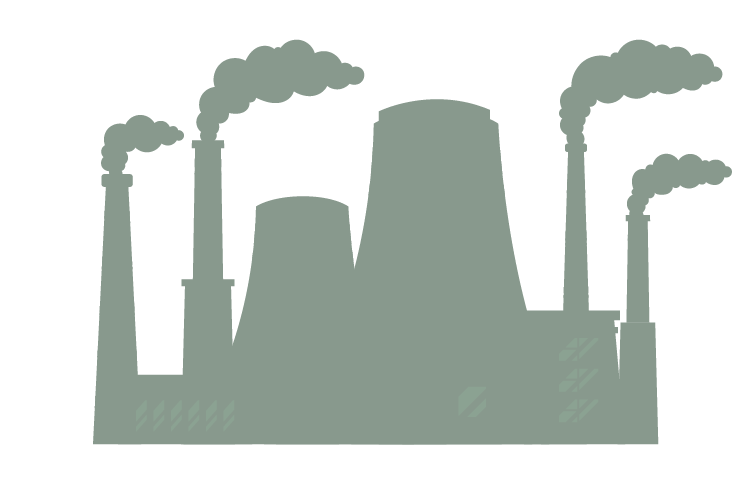
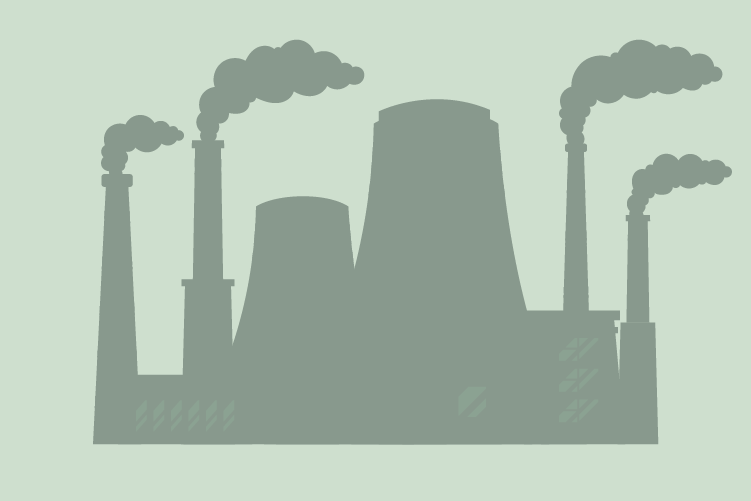
avance

diff --git a/04-ECYDA/src/components/Header.jsx b/04-ECYDA/src/components/Header.jsx
@@ -1,29 +1,29 @@
 import "../stylesheet/Header.css"
 
-export const Header = ({ headerColor , header2Color }) => {
+export const Header = ({ headerColor, header2Color }) => {
   return (
     <div className="Header ">
-      <nav class={`navbar navbar-expand-lg  ${headerColor}`} data-bs-theme="dark">
-        <div class="container ">
-          <a class="navbar-brand" href="#">
-            <img src="./public/logo-blanco.png" alt="Bootstrap" width="80"/>
+      <nav className={`navbar navbar-expand-lg  ${headerColor}`} data-bs-theme="dark">
+        <div className="container ">
+          <a className="navbar-brand" href="#">
+            <img src="./logo-blanco.png" alt="Bootstrap" width="80" />
           </a>
-          <button class="navbar-toggler" type="button" data-bs-toggle="collapse" data-bs-target="#navbarNav" aria-controls="navbarNav" aria-expanded="false" aria-label="Toggle navigation">
-            <span class="navbar-toggler-icon"></span>
+          <button className="navbar-toggler" type="button" data-bs-toggle="collapse" data-bs-target="#navbarNav" aria-controls="navbarNav" aria-expanded="false" aria-label="Toggle navigation">
+            <span className="navbar-toggler-icon"></span>
           </button>
-          <div class="collapse navbar-collapse" id="navbarNav">
-            <ul class="navbar-nav ms-auto ">
-              <li class="nav-item navbar-light ">
-                <a class="nav-link" href="#">Acerca de</a>
+          <div className="collapse navbar-collapse" id="navbarNav">
+            <ul className="navbar-nav ms-auto ">
+              <li className="nav-item navbar-light ">
+                <a className="nav-link" href="#">Acerca de</a>
               </li>
-              <li class="nav-item">
-                <a class="nav-link" href="#">Comic interactivo</a>
+              <li className="nav-item">
+                <a className="nav-link" href="#">Comic interactivo</a>
               </li>
-              <li class="nav-item">
-                <a class="nav-link" href="#">Tienda</a>
+              <li className="nav-item">
+                <a className="nav-link" href="#">Tienda</a>
               </li>
-              <li class="nav-item">
-                <a class="nav-link" href="#">Quienes somos</a>
+              <li className="nav-item">
+                <a className="nav-link" href="#">Quienes somos</a>
               </li>
             </ul>
           </div>

diff --git a/04-ECYDA/src/components/Cards.jsx b/04-ECYDA/src/components/Cards.jsx
@@ -1,20 +1,21 @@
-export const Cards = () => {
+import "../stylesheet/Cards.css"
+export const Cards = ({bgImg, bgImg2, bgR}) => {
     return (
-        <div classname={`row m-4 p-2 ${bg-color}`}>
-            <div classname="col-sm-6 mb-3 mb-sm-0">
-                <div classname="card">
-                    <div classname="card-body">
-                        <h5 classname="card-title">¿POR QUE CREEAMOS LA MARCA?</h5>
-                        <p classname="card-text">
+        <div className={`row m-4 p-2 ${bgR}`}>
+            <div className="col-sm-6 mb-3 mb-sm-0">
+                <div className="card">
+                    <div className={`card-body  ${bgImg}` } style={{minHeight: "200px"}}>
+                        <h5 className="card-title">¿POR QUE CREEAMOS LA MARCA?</h5>
+                        <p className="card-text">
                         Poco se ha explorado el tema del calentamiento global y sus consecuencias a través de comics interactivos con una narrativa distópica, es por esto que, decidimos crear este proyecto.</p>
                     </div>
                 </div>
             </div>
-            <div classname="col-sm-6">
-                <div classname="card">
-                    <div classname="card-body">
-                        <h5 classname="card-title">¿QUE SON LAS NARRATIVAS DISTOPICAS?</h5>
-                        <p classname="card-text">
+            <div className="col-sm-6">
+                <div className="card">
+                    <div className={`card-body ${bgImg2}`} style={{minHeight: "200px"}}>
+                        <h5 className="card-title">¿QUE SON LAS NARRATIVAS DISTOPICAS?</h5>
+                        <p className="card-text">
                      Historias, a menudo de ciencia ficción, que presentan un futuro o sociedad alternativa, generalmente indeseable, caracterizada por la opresión, el control y la falta de libertad</p>
                     </div>
                 </div>

diff --git a/04-ECYDA/src/App.jsx b/04-ECYDA/src/App.jsx
@@ -2,6 +2,8 @@ import "./App.css"
 import { Header } from "./components/Header.jsx"
 import {InfoCard} from "./components/InfoCard.jsx"
 import { Cards } from "./components/Cards.jsx"
+import { Barra } from "./components/Barra.jsx"
+
 
 export const App = () => {
     return(
@@ -14,7 +16,13 @@ export const App = () => {
          BgImg="bg-img"
         />
         <Cards
-        />
+         bgImg="bg-fact2"
+         bgImg2="bg-fact3"
+         bgR="bg-Rect"
+         />
+        <Barra
+        bgIMG="bg-Img5"
+         />
         </>
     )
 }

diff --git a/04-ECYDA/src/components/Barra.jsx b/04-ECYDA/src/components/Barra.jsx
@@ -1,0 +1,12 @@
+import "../stylesheet/Barra.css"
+export const Barra = ({bgIMG}) => {
+    return (
+        <div>
+            <div className="card" style={{ minWidth: "200px" }}>
+                <div className={`card-body ${bgIMG}`}>
+                    <h5 className="card-title">Somos una marca enfocada en desarrollar un proyecto multimedial transmedia para concienciar, entretener y enseñar acerca del calentamiento goblal y sus consecuencias.</h5>
+                </div>
+            </div>
+        </div>
+    )
+}

diff --git a/04-ECYDA/src/stylesheet/Cards.css b/04-ECYDA/src/stylesheet/Cards.css
@@ -1,4 +1,19 @@
-.bg-color{
-    background-color: #CEDFCE;
-    
+
+.bg-fact2{
+    background-image: url(../public/fabrica2.png);
+    background-size: cover;
+    background-repeat: no-repeat;
+    background-position:center;
+}
+.bg-fact3{
+    background-image: url(../public/fabrica3.png);
+    background-size:cover;
+    background-repeat: no-repeat;
+    background-position:center;
+
+}
+
+.bg-Rect{
+    background-image: url(../public/rectangulo.png);
+    background-size: cover;
 }

diff --git a/04-ECYDA/src/components/InfoCard.jsx b/04-ECYDA/src/components/InfoCard.jsx
@@ -4,7 +4,7 @@ export const InfoCard = ({BgImg}) => {
      return(
       <div className={`container m-8 p-8 ${BgImg}`}>
         <div className="d-flex align-items-center flex-column">
-         <img src="./public/Logo.png" alt="Bootstrap"/>
+         <img src="./Logo.png" alt="Bootstrap"/>
          <h1 className="fixed-center">El humo del progreso esta nublando nuestro futuro</h1>
         </div>
       </div>

diff --git a/04-ECYDA/src/stylesheet/Barra.css b/04-ECYDA/src/stylesheet/Barra.css
@@ -1,0 +1,4 @@
+.bg-Img5{
+    background-color: #CEDFCE;
+    background-image:url(../image.png);
+}
